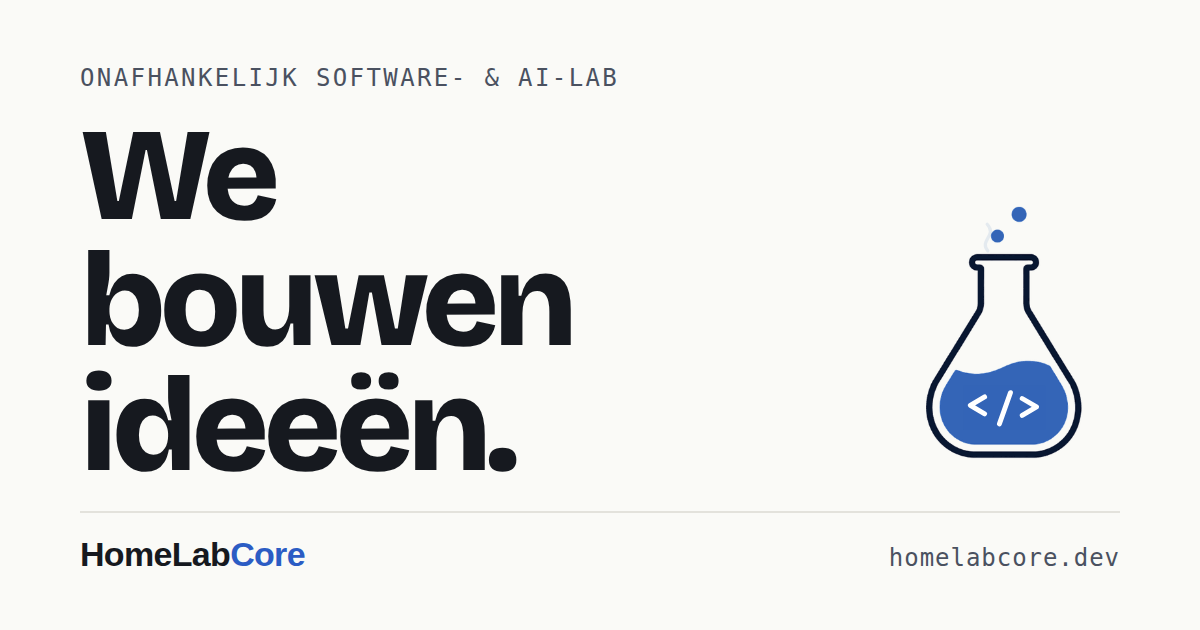
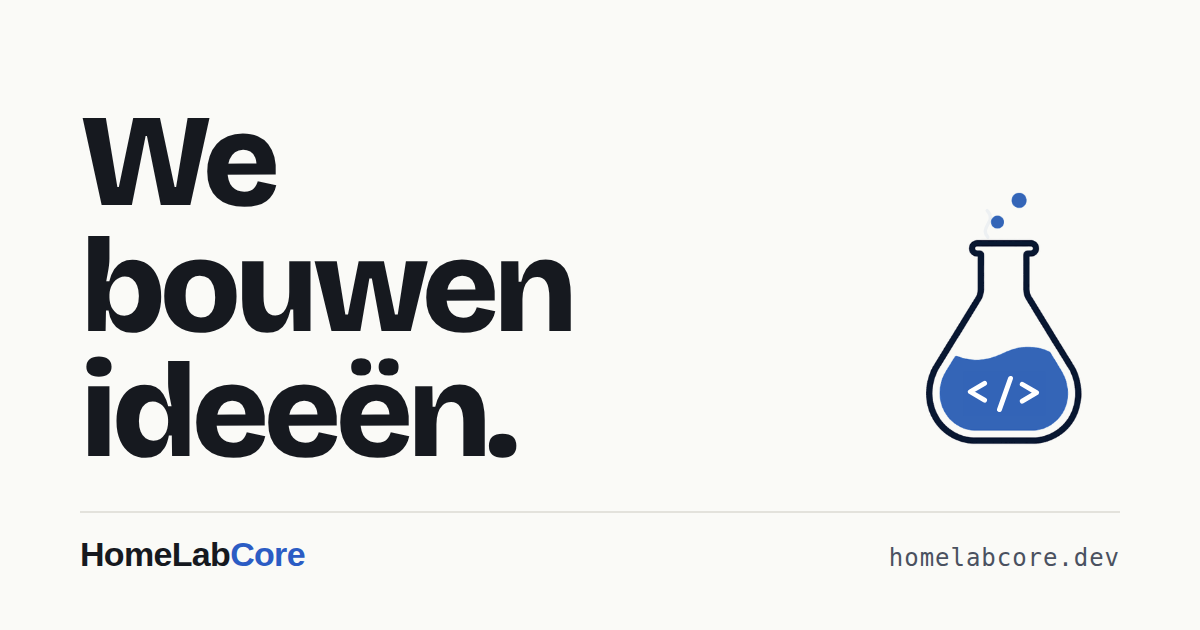
Social preview (nl): drop the label above the title
The Dutch share image no longer carries "Onafhankelijk software- &
AI-lab", matching the Dutch homepage; its alt text follows.

Claude-Session: https://claude.ai/code/session_0178164h7n1j1cSQMrp4RqFH

diff --git a/src/lib/social.ts b/src/lib/social.ts
@@ -22,7 +22,7 @@ export const OG_HEIGHT = 630;
 // The global image exists once per language (same design, translated text).
 const GLOBAL_ALT: Record<Locale, string> = {
   en: "HomeLabCore — We build ideas. Independent software & AI lab.",
-  nl: "HomeLabCore — We bouwen ideeën. Onafhankelijk software- & AI-lab.",
+  nl: "HomeLabCore — We bouwen ideeën.",
   uk: "HomeLabCore — Ми будуємо ідеї. Незалежна лабораторія програмного забезпечення та AI.",
 };
 const globalImage = (lang: Locale): SocialImage => ({
